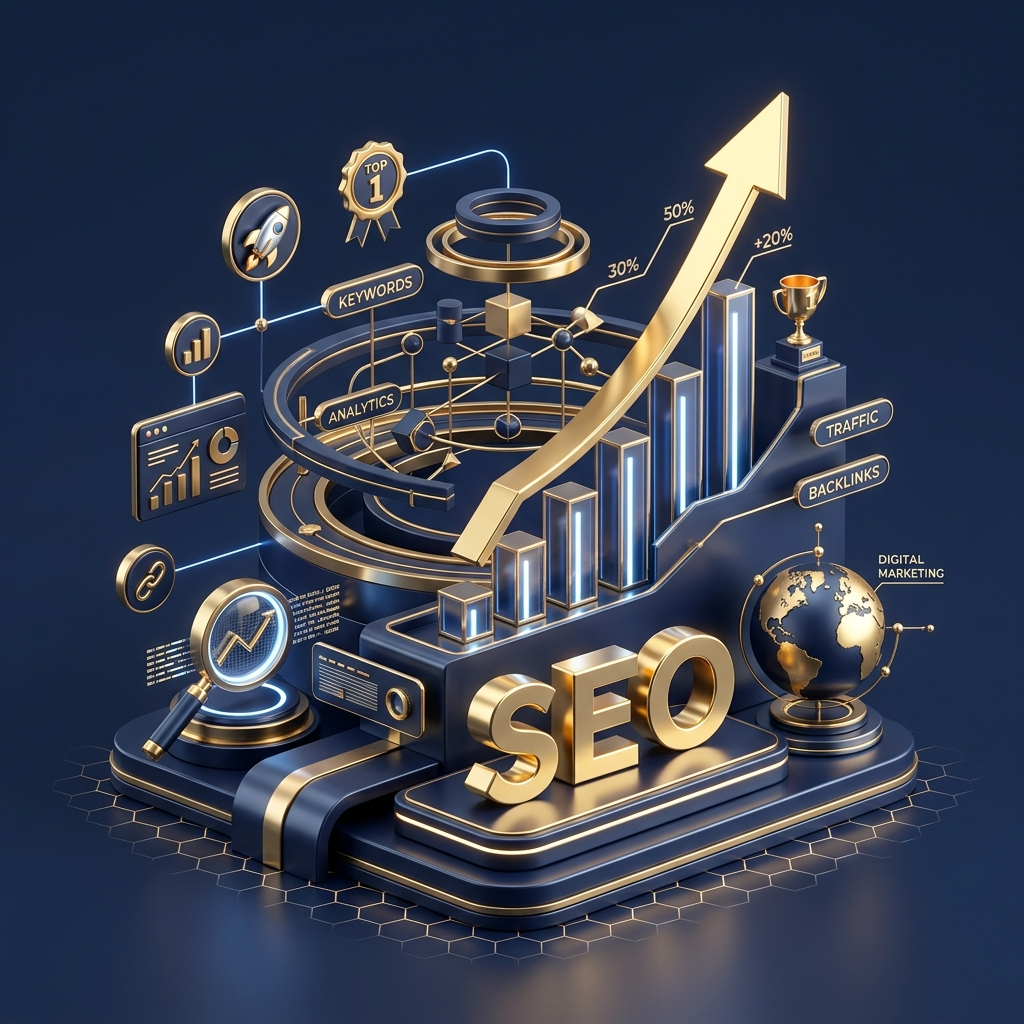
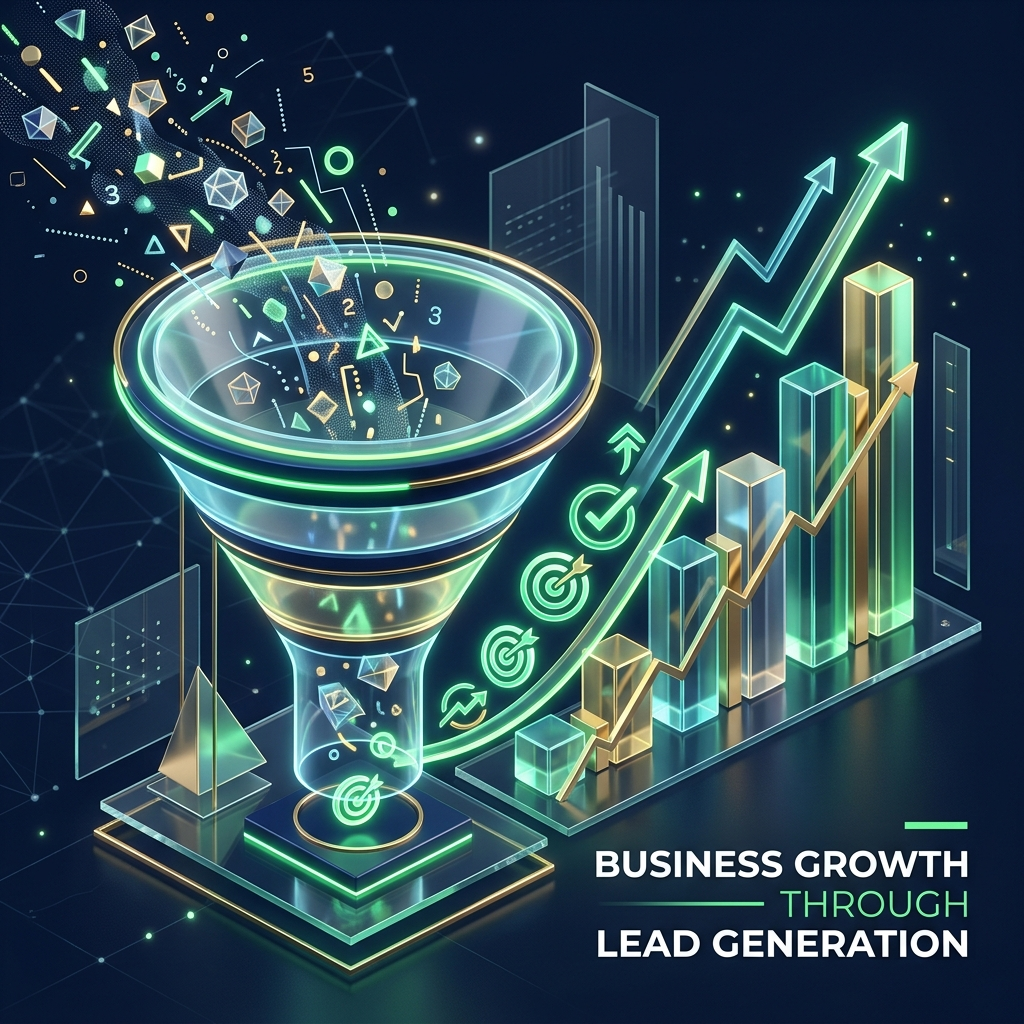
feat: Integrate Lead Generation content and add custom illustrations

diff --git a/src/data/services/lead-generation.ts b/src/data/services/lead-generation.ts
@@ -1,103 +1,100 @@
 import { 
-  Users, Target, TrendingUp, Mail, 
-  MessageSquare, Zap, Crosshair, BarChart3 
+  Target, Magnet, Users, TrendingUp, 
+  MapPin, MousePointerClick, MessageCircle, BarChart3 
 } from "lucide-react";
 import { ServiceData } from "./types";
 
 export const leadGenerationData: ServiceData = {
   slug: "lead-generation",
   seo: {
-    title: "B2B & B2C Lead Generation Agency in Hyderabad | IDM Smart Tech",
-    description: "Fill your sales pipeline with high-quality, exclusive leads. Our data-driven lead generation strategies guarantee predictable revenue for your business.",
-    keywords: "lead generation agency, B2B leads, exclusive lead generation, sales pipeline, marketing agency Hyderabad",
+    title: "Lead Generation Services | IDM Smart Tech",
+    description: "Generate high-quality leads that drive business growth. Our targeted digital marketing solutions connect you with high-intent customers ready to convert.",
+    keywords: "lead generation services, B2B lead generation, B2C lead generation, digital marketing agency, Google Ads leads, SEO leads",
   },
   hero: {
-    h1: "Lead Generation Services",
-    headline: "Fill Your Pipeline with High-Intent Buyers.",
-    description: "Stop relying on referrals and cold calls. We build automated, multi-channel lead generation engines that deliver exclusive, qualified leads straight to your sales team.",
-    benefits: ["Exclusive Leads", "Automated Pipelines", "Lower Cost Per Lead", "Predictable Revenue"],
-    primaryCta: "Get a Custom Strategy",
-    secondaryCta: "See Our Results",
+    h1: "Generate Qualified Leads That Drive Business Growth",
+    headline: "Stop Chasing, Start Attracting.",
+    description: "At IDM Smart Tech, we help businesses generate high-quality leads through strategic digital marketing solutions. Connect with potential customers who are actively searching for your products or services.",
+    benefits: ["High-Intent Customers", "Measurable ROI", "Targeted Campaigns", "Conversion-Focused"],
+    primaryCta: "Start Getting Leads",
+    secondaryCta: "View Our Process",
     heroImage: "/images/services/lead_gen_hero.png",
   },
   about: {
-    title: "Why You Need a Lead Generation Engine",
-    subtitle: "Because hoping for referrals isn't a strategy.",
+    title: "Why You Need a Strategic Lead Generation Partner",
+    subtitle: "Success comes from attracting the right audience.",
     description: [
-      "In today's highly competitive market, businesses that rely solely on word-of-mouth or outdated outbound tactics are losing market share to competitors with robust digital engines.",
-      "At IDM Smart Tech, we don't just generate 'clicks' or 'traffic'—we generate real people who are actively looking for your exact product or service. Our proprietary systems capture, nurture, and deliver high-intent leads that actually close."
+      "Growing a business requires more than simply increasing website traffic. It requires connecting with people who are genuinely interested in your products or services. Finding potential customers has become more competitive than ever, and many businesses waste budget on campaigns that generate clicks but fail to produce meaningful enquiries.",
+      "At IDM Smart Tech, we bridge this gap. We develop customised lead generation strategies combining market research, audience analysis, paid advertising, SEO, and conversion-focused marketing to generate qualified leads that contribute to measurable business growth."
     ],
     stats: [
-      { label: "Pipeline Growth", value: "3x" },
-      { label: "Close Rate Avg", value: "24%" },
+      { label: "High-Intent Leads", value: "3x" },
+      { label: "Conversion Rate", value: "+45%" },
     ],
     aboutImage: "/images/services/lead_gen_about.png",
   },
   features: [
-    { title: "B2B Lead Generation", description: "Target decision-makers on LinkedIn and via email to secure high-ticket meetings.", icon: Users },
-    { title: "B2C Lead Campaigns", description: "High-volume, hyper-targeted social and search campaigns to drive consumer sales.", icon: Target },
-    { title: "Landing Page Optimization", description: "Building highly persuasive, conversion-focused funnels that turn visitors into inquiries.", icon: Zap },
-    { title: "Omnichannel Approach", description: "We utilize Google, Meta, LinkedIn, and Email to surround your ideal prospects.", icon: Crosshair },
-    { title: "Lead Nurturing", description: "Automated email and SMS sequences that educate and warm up leads before they talk to sales.", icon: Mail },
-    { title: "Conversational Marketing", description: "AI chatbots and WhatsApp automation to capture and qualify leads 24/7.", icon: MessageSquare },
-    { title: "CRM Integration", description: "Leads are pushed instantly to your CRM (Salesforce, HubSpot, Zoho) for immediate follow-up.", icon: TrendingUp },
-    { title: "ROI Tracking", description: "End-to-end attribution showing exactly which campaigns drove closed-won deals.", icon: BarChart3 },
+    { title: "Google Ads Campaigns", description: "Reach customers exactly when they are searching. Strategically planned to generate high-intent leads and maximise ad budget.", icon: MousePointerClick },
+    { title: "SEO Lead Generation", description: "Build long-term online visibility and attract organic search customers to generate consistent business enquiries.", icon: TrendingUp },
+    { title: "Social Media Leads", description: "Connect with your ideal audience through targeted Facebook and Instagram advertising and creative ad design.", icon: Users },
+    { title: "Local SEO & Maps", description: "Increase visibility in Google Search and Google Maps. Improve local rankings and drive direction requests.", icon: MapPin },
+    { title: "Landing Page Design", description: "Fast loading, mobile responsive, and user-friendly pages specifically designed to convert visitors into customers.", icon: Target },
+    { title: "Marketing Automation", description: "Improve customer communication with instant WhatsApp responses, automated follow-ups, and CRM integration.", icon: MessageCircle },
+    { title: "Lead Nurturing", description: "Workflows designed to guide prospects down the funnel and improve your overall lead conversion process.", icon: Magnet },
+    { title: "Performance Tracking", description: "Transparent reporting and continuous optimisation based on data-driven campaign analytics.", icon: BarChart3 },
   ],
   benefits: [
-    { title: "Predictable Revenue", description: "Know exactly how many leads you'll get this month, and exactly how much revenue they'll generate." },
-    { title: "Higher Quality Deals", description: "We focus on intent-based targeting, meaning the leads you receive are actively looking to buy." },
-    { title: "Exclusive to You", description: "Unlike shared lead platforms (like JustDial), our leads are generated exclusively for your business." },
-    { title: "Scalable Growth", description: "Once the engine is built and optimized, you can scale your sales simply by turning the dial." },
-    { title: "Save Sales Time", description: "Your sales team spends less time prospecting and more time doing what they do best: closing." },
+    { title: "High-Intent Prospects", description: "We bridge the gap by connecting your business with customers who are actively searching for your exact solutions." },
+    { title: "Maximised Marketing Budget", description: "Stop spending on empty clicks. We optimise your investment to ensure you are paying for meaningful enquiries." },
+    { title: "Long-Term Digital Authority", description: "Through sustained SEO and targeted campaigns, we build a predictable and scalable pipeline for your business." },
+    { title: "Data-Driven Decisions", description: "Every campaign is continuously monitored and optimised to improve lead quality and increase conversion rates." },
+    { title: "Local & National Reach", description: "Whether you want to reach local customers in Hyderabad or expand across India, our campaigns are tailored to scale." },
   ],
   whyChooseUs: [
-    "Multi-Channel Expertise",
-    "Focus on Lead Quality",
-    "Transparent CPL Metrics",
-    "Seamless CRM Integrations",
-    "In-House Funnel Builders",
-    "Automated Nurture Sequences",
-    "Data-Driven Strategies",
-    "Proven Track Record"
+    "Customised lead generation strategies",
+    "Google Certified digital marketing experts",
+    "ROI-focused campaigns",
+    "Transparent reporting",
+    "Multi-channel marketing approach",
+    "Conversion-focused landing pages",
+    "Continuous campaign optimisation",
+    "Affordable pricing for all business sizes",
+    "Dedicated account management",
+    "Proven results across multiple industries"
   ],
   process: [
-    { step: "01", title: "Audience Profiling", description: "Defining your Ideal Customer Profile (ICP) and mapping their buying journey." },
-    { step: "02", title: "Offer Creation", description: "Developing compelling lead magnets, offers, or hooks to capture contact information." },
-    { step: "03", title: "Funnel Build", description: "Designing landing pages, setting up tracking, and integrating your CRM." },
-    { step: "04", title: "Traffic Generation", description: "Launching targeted paid ad campaigns across Google, Meta, and LinkedIn." },
-    { step: "05", title: "Lead Nurturing", description: "Engaging leads through automated email and SMS follow-ups to increase qualification." },
-    { step: "06", title: "Scale", description: "Analyzing conversion data and scaling budgets on the most profitable campaigns." },
+    { step: "01", title: "Market & Audience Analysis", description: "We research your target market, competitors, and audience behavior to build a precise strategy." },
+    { step: "02", title: "Multi-Channel Strategy", description: "Deploying the right mix of Google Ads, SEO, and Social Media tailored to your unique objectives." },
+    { step: "03", title: "Conversion Optimisation", description: "Designing high-converting landing pages and lead capture forms that turn traffic into enquiries." },
+    { step: "04", title: "Campaign Launch", description: "Executing targeted advertising and local search strategies to immediately start generating leads." },
+    { step: "05", title: "Automation & Nurturing", description: "Setting up WhatsApp and email automations to ensure no lead goes cold before your sales team reaches them." },
+    { step: "06", title: "Continuous Optimisation", description: "Refining targeting, ad copy, and landing pages based on real-time data to maximize your ROI." },
   ],
   results: [
-    { value: "300%", label: "Pipeline Increase" },
-    { value: "45%", label: "Lower Lead Cost" },
-    { value: "50k+", label: "Leads Generated" },
-    { value: "24/7", label: "Automated Flow" },
+    { value: "3x", label: "Increase in Enquiries" },
+    { value: "45%", label: "Higher Conversion Rate" },
+    { value: "60%", label: "Lower Cost Per Lead" },
+    { value: "100%", label: "Transparent Reporting" },
   ],
   industries: [
     "Real Estate Developers",
-    "Financial Advisors & Insurance",
-    "B2B Software & SaaS",
-    "Education & EdTech",
-    "Healthcare & Clinics",
-    "High-Ticket Services",
-    "Legal Firms",
-    "Home Improvement & HVAC"
+    "Healthcare & Hospitals",
+    "Educational Institutions",
+    "B2B Service Providers",
+    "E-Commerce & Retail",
+    "Startups & Tech",
+    "Local Service Businesses",
+    "Financial Services"
   ],
   faqs: [
-    { question: "Are your leads exclusive?", answer: "Yes, 100%. We run campaigns specifically under your brand. Every lead generated belongs entirely to you and is never sold to a competitor." },
-    { question: "What platforms do you use for lead generation?", answer: "We use a multi-channel approach depending on your audience. For B2B, we rely heavily on LinkedIn and Google Ads. For B2C, we utilize Meta (Facebook/Instagram), Google, and TikTok." },
-    { question: "How do you ensure lead quality?", answer: "We use high-intent targeting, multi-step qualification forms, and exclude broad audiences. We prioritize Cost Per Qualified Lead (CPQL) over just Cost Per Lead (CPL)." },
-    { question: "Do you integrate with my CRM?", answer: "Yes. We integrate directly with HubSpot, Salesforce, Zoho, Pipedrive, and virtually any CRM via Zapier or native webhooks." },
-    { question: "How quickly can we start seeing leads?", answer: "Once the strategy is approved and the funnels are built (usually 1-2 weeks), leads start flowing within 24-48 hours of campaign launch." },
-    { question: "Do you guarantee a certain number of leads?", answer: "While we don't guarantee exact numbers (as algorithms fluctuate), we provide highly accurate projections based on historical data and initial test campaigns." },
-    { question: "What is lead nurturing?", answer: "It's the process of automatically sending emails, SMS, or WhatsApp messages to leads immediately after they sign up, educating them and increasing their likelihood of buying." },
-    { question: "Is this better than buying email lists?", answer: "Infinitely better. Bought lists are cold, non-compliant (spam), and yield terrible conversion rates. Our leads actually request to speak with you." },
+    { question: "How is lead generation different from general digital marketing?", answer: "While general marketing focuses on brand awareness and traffic, lead generation is hyper-focused on acquiring contact information from qualified prospects who have expressed direct interest in your service, giving your sales team immediate opportunities." },
+    { question: "Which platform is best for generating leads?", answer: "It depends entirely on your business. Google Ads is excellent for capturing high-intent searches (people looking to buy right now). Facebook/Instagram Ads are great for B2C visual products, while LinkedIn is perfect for B2B. We recommend a multi-channel approach." },
+    { question: "How do you ensure the leads are high quality?", answer: "We use strict targeting parameters, negative keywords, highly specific ad copy, and multi-step conversion forms. This pre-qualifies users before they submit their details, ensuring you don't waste time on junk leads." },
+    { question: "Do you build the landing pages for the campaigns?", answer: "Yes! Sending traffic to a generic homepage is the biggest mistake businesses make. We design and host dedicated, conversion-optimized landing pages tailored specifically to the ad campaign." },
+    { question: "What is your WhatsApp & Marketing Automation service?", answer: "Speed to lead is critical. We integrate automations so that the moment a lead submits a form, they receive an instant customized WhatsApp or email response, and your sales team is instantly notified." },
+    { question: "Do you work with local businesses in Hyderabad?", answer: "Absolutely. We specialize in Local SEO and Google Business Profile optimization to help local businesses dominate the Maps section and generate calls and direction requests." },
+    { question: "How long does it take to start seeing leads?", answer: "With paid campaigns like Google Ads and Meta Ads, you can start receiving leads within 24-48 hours of launch. Organic leads through SEO typically take 3-6 months to build momentum." },
+    { question: "Are your campaigns ROI-focused?", answer: "100%. We provide transparent reporting that tracks exactly how much you spent, how many leads were generated, and your exact Cost Per Lead (CPL)." },
   ],
-  relatedBlogs: [
-    { title: "B2B vs B2C Lead Generation: What's the Difference?", link: "/blog", image: "/team_pradeep_goud.PNG" },
-    { title: "How to Build a High-Converting Landing Page", link: "/blog", image: "/team_g_sravani.jpeg" },
-    { title: "Why Lead Nurturing is the Secret to Closing Deals", link: "/blog", image: "/team_triveni.jpeg" },
-    { title: "The Ultimate Guide to LinkedIn Lead Generation", link: "/blog", image: "/team_lekha.png" },
-  ]
+  relatedBlogs: [] // Hidden completely in template
 };

diff --git a/leadgeneration.md b/leadgeneration.md
@@ -1,0 +1,115 @@
+Generate Qualified Leads That Drive Business Growth
+
+At IDM Smart Tech, we help businesses generate high-quality leads through strategic digital marketing solutions. Our lead generation services combine Google Ads, Meta Ads, SEO, Local SEO, Google Business Profile optimisation, and conversion-focused landing pages to attract potential customers who are actively searching for your products or services.
+
+Every strategy is customised to your business goals, helping you increase enquiries, improve conversions, and achieve sustainable business growth.
+
+Introduction
+
+Growing a business requires more than simply increasing website traffic. Success comes from attracting the right audience—people who are genuinely interested in your products or services.
+
+At IDM Smart Tech, we develop customised lead generation strategies that connect businesses with high-intent customers across multiple digital platforms. Our team combines market research, audience analysis, paid advertising, search engine optimisation, and conversion-focused marketing to generate qualified leads that contribute to measurable business growth.
+
+Whether you want to reach local customers in Hyderabad or expand your business across India, we create data-driven campaigns that maximise lead quality while optimising your marketing investment.
+
+Why Choose Lead Generation Services?
+
+Finding potential customers has become more competitive than ever. Many businesses spend significant marketing budgets on campaigns that generate clicks but fail to produce meaningful enquiries.
+
+Our lead generation services bridge this gap by connecting your business with customers who are actively searching for your products or services.
+
+Through targeted advertising, local search optimisation, high-converting landing pages, and continuous campaign optimisation, we help businesses generate qualified leads with a higher potential to convert into loyal, long-term customers.
+
+Our Lead Generation Services
+
+Every business has unique goals and challenges. That's why our lead generation solutions are tailored to your industry, target audience, and business objectives.
+
+We create integrated digital marketing strategies that generate consistent enquiries while improving your overall marketing performance.
+
+Google Ads Lead Generation
+
+Reach customers exactly when they are searching for your products or services.
+
+Our Google Ads campaigns are strategically planned and continuously optimised to:
+
+Generate high-intent leads
+Increase qualified enquiries
+Maximise your advertising budget
+Improve conversion rates
+Deliver measurable ROI
+SEO Lead Generation
+
+Build long-term online visibility and attract customers through organic search.
+
+Our SEO services help you:
+
+Improve search engine rankings
+Increase organic website traffic
+Generate consistent business enquiries
+Build long-term digital authority
+Achieve sustainable growth
+Social Media Lead Generation
+
+Connect with your ideal audience through targeted Facebook and Instagram advertising campaigns.
+
+Our social media strategies focus on:
+
+Audience targeting
+Lead generation campaigns
+Creative ad design
+Lead form optimisation
+Performance tracking and optimisation
+Local SEO & Google Business Profile Optimisation
+
+Increase your visibility in Google Search and Google Maps.
+
+Our local SEO services include:
+
+Google Business Profile optimisation
+Local keyword targeting
+Citation management
+Local ranking improvement
+Review management
+Increased calls, direction requests, and enquiries
+Landing Page Design & Conversion Optimisation
+
+A successful lead generation campaign begins with a landing page designed to convert visitors into customers.
+
+We create landing pages that are:
+
+Fast loading
+Mobile responsive
+User-friendly
+Conversion focused
+SEO optimised
+Designed to maximise enquiries
+WhatsApp & Marketing Automation
+
+Improve customer communication through intelligent automation.
+
+Our automation solutions include:
+
+Instant WhatsApp responses
+Automated follow-up messages
+Lead nurturing workflows
+CRM integration
+Appointment reminders
+Improved lead conversion process
+Why Choose IDM Smart Tech?
+Customised lead generation strategies
+Google Certified digital marketing experts
+ROI-focused campaigns
+Transparent reporting
+Multi-channel marketing approach
+Conversion-focused landing pages
+Continuous campaign optimisation
+Affordable pricing for businesses of all sizes
+Dedicated account management
+Proven results across multiple industries
+Ready to Generate More Qualified Leads?
+
+Partner with IDM Smart Tech and grow your business with result-driven lead generation services.
+
+Whether you're a startup, local business, or established company, our experts will create a customised lead generation strategy that helps you attract the right customers, increase enquiries, and achieve long-term business growth.
+
+Contact IDM Smart Tech today and start generating high-quality leads that convert into customers.
